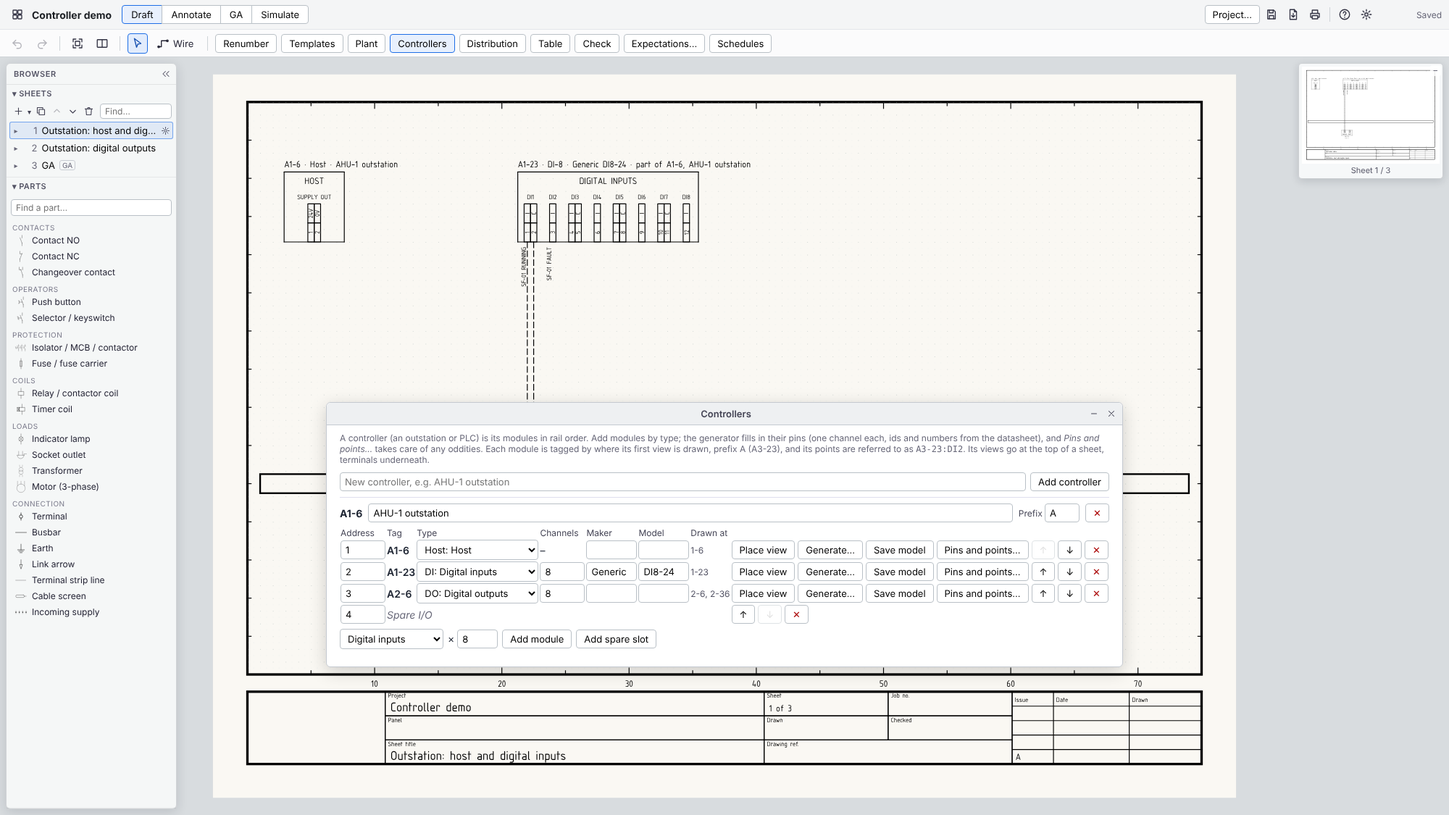
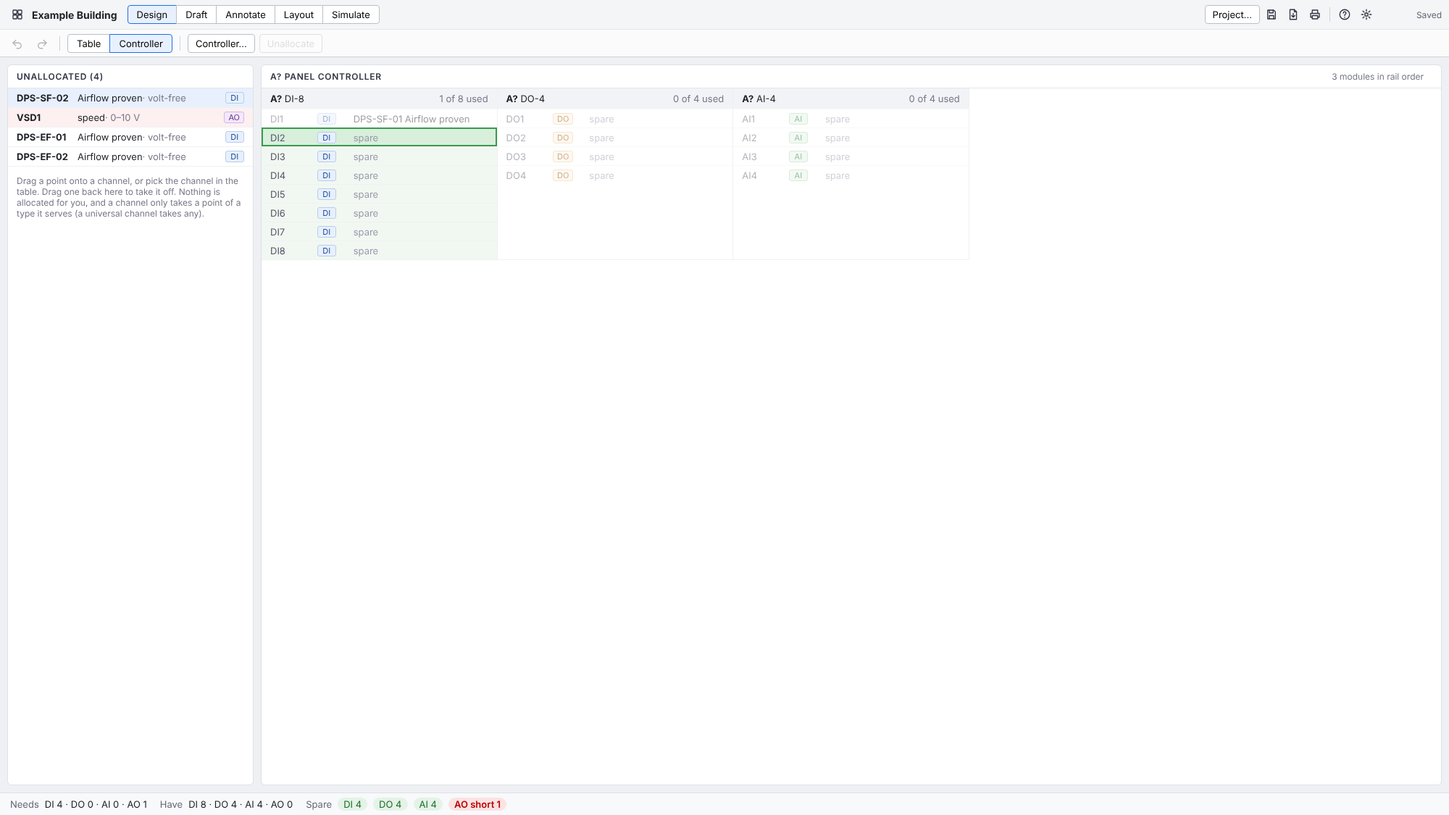
v0.4 step 5b: labels follow points; the controller leaves Draft (#64)
A module channel's label follows the point allocated to it ("DPS1 flow")
on the drawing and in the IO schedule, and a typed label is kept for a
channel with no point. The Controllers button leaves Draft: the window is
Controller... in Design, and its Place view goes to Draft to place.

diff --git a/src/core/v04.test.ts b/src/core/v04.test.ts
@@ -6,10 +6,11 @@ import { AvoidLib } from "libavoid-js";
 import { buildLsp01 } from "../bench/lsp01";
 import { checkProject } from "./checks";
 import { addController, addModule, deleteController, generateModule } from "./controllers";
-import { channelsFor, noChannelReason, unallocated, designTemplateOf, duplicatePlant, insertDesignTemplate, stepTag, tagPlan, templateCounts, addDesignPlant, addDesignPoint, addSystem, allocate, channelsOf, deleteDesignPoint, deleteSystem, moveSystem, movePlant, needsLine, pointOnChannel, pointType, renameSystem, setPlantDesign, systemGroups, updateDesignPoint } from "./design";
+import { channelLabel, channelsFor, noChannelReason, unallocated, designTemplateOf, duplicatePlant, insertDesignTemplate, stepTag, tagPlan, templateCounts, addDesignPlant, addDesignPoint, addSystem, allocate, channelsOf, deleteDesignPoint, deleteSystem, moveSystem, movePlant, needsLine, pointOnChannel, pointType, renameSystem, setPlantDesign, systemGroups, updateDesignPoint } from "./design";
 import { newProject, type IoPoint, type Project } from "./model";
 import { defaultPattern } from "./modules";
-import { addPlant, deletePlant, updatePin, updatePlant } from "./ops";
+import { addPlant, deletePlant, placePlantView, updatePin, updatePlant, updatePoint } from "./ops";
+import { ioSchedule } from "./schedules";
 import { saveSheetTemplate } from "./templates";
 import { parseDesignTemplate, parseProject } from "./validate";
 
@@ -394,5 +395,31 @@ describe("the Controller view's lists (§4)", () => {
     expect(noChannelReason(p, pu.points![2]!)).toBe("the panel has no analogue outputs");
     allocate(p, pu.id, "a", { module: di.id, point: "DI1" });
     expect(noChannelReason(p, pu.points![1]!)).toBe("every DI channel is taken");
+  });
+});
+
+describe("labels follow points (§4)", () => {
+  test("a channel's label is its point's tag and name; with no point, a typed label is kept; drawn views and the IO schedule agree", () => {
+    const { p, di } = panel();
+    placePlantView(p, p.pages[0]!.id, di.id, [10, 4]);
+    updatePoint(p, di.id, "DI2", { label: "Spare, typed" });
+    const pu = pump(p, "DPS1", [{ name: "flow", form: "contact" }]);
+    pu.tag = "DPS1";
+    allocate(p, pu.id, "flow", { module: di.id, point: "DI1" });
+    const ch = (n: string) => di.points!.find((q) => q.name === n)!;
+    expect(channelLabel(p, di, ch("DI1"))).toBe("DPS1 flow");
+    expect(channelLabel(p, di, ch("DI2"))).toBe("Spare, typed");
+    const view = p.pages[0]!.elements.find((e) => e.symbol === "plant-view")!;
+    const label = (pin: string) => (JSON.parse(String(view.params.ppins)) as string[][]).find((r) => r[0] === pin)!.at(-1);
+    expect(label(ch("DI1").pins[0]!)).toBe("DPS1 flow");
+    expect(ioSchedule(p).find((r) => r.point.endsWith("DI1"))!.label).toBe("DPS1 flow");
+    // The plant renamed: the label follows. Taken off: back to what was typed (nothing here).
+    updatePlant(p, pu.id, { tag: "FS1" });
+    expect(label(ch("DI1").pins[0]!)).toBe("FS1 flow");
+    updateDesignPoint(p, pu.id, "flow", { name: "proved" });
+    expect(label(ch("DI1").pins[0]!)).toBe("FS1 proved");
+    allocate(p, pu.id, "proved", null);
+    expect(label(ch("DI1").pins[0]!)).toBe("");
+    expect(label(ch("DI2").pins[0]!)).toBe("Spare, typed");
   });
 });

diff --git a/src/core/ops.ts b/src/core/ops.ts
@@ -34,7 +34,7 @@ import {
 } from "./model";
 import { benchOf, defaultParams, isBar, formatPoints, getSymbol, partPoints, poleMates, requireSymbol, terminalPoint } from "./symbols";
 import { moduleType, moduleTypeName } from "./modules";
-import { renamePointDesign, tidyDesign } from "./design";
+import { channelLabel, renamePointDesign, tidyDesign } from "./design";
 import { cleanPoints, formatQuickEntry, mergePoints, isInputForm, missingRefs, parseQuickEntry, pointOfPin, printedPin } from "./points";
 import { isOrthogonal, routeOf, simplifyRoute } from "./wires";
 import { isMaster, isSlave, locate } from "./xref";
@@ -813,9 +813,10 @@ const cleanTerminals = (list: string[]) => [...new Set(list.map((t) => t.trim())
  * per pin its number as printed, its id, and the label under its run (its
  * group, else its point's name). JSON: [[pin, printed, id, label], …].
  */
-export function plantPinsParam(item: PlantItem): string {
+export function plantPinsParam(item: PlantItem, project?: Project): string {
   const pointOf = pointOfPin(item);
-  const labelOf = new Map((item.points ?? []).map((p) => [p.name, p.label ?? ""]));
+  // A module's labels follow the points on its channels (design-v0.4 §4).
+  const labelOf = new Map((item.points ?? []).map((p) => [p.name, project ? channelLabel(project, item, p) : (p.label ?? "")]));
   return JSON.stringify(
     item.terminals.map((t) => {
       const point = pointOf.get(t) ?? "";
@@ -953,8 +954,8 @@ export function updatePlant(
       renamePointDesign(project, item.id, old.name, renamed.name);
     }
   }
-  syncPlantViews(project);
   tidyDesign(project);
+  syncPlantViews(project);
 }
 
 /** Point refs that named plant:<id>:<old> now name plant:<id>:<new>. */
@@ -1127,8 +1128,9 @@ export function deletePlant(project: Project, id: string): void {
     const views = page.elements.filter((e) => e.symbol === "plant-view" && e.params.plant === id).map((e) => e.id);
     if (views.length) deleteElements(project, page.id, views);
   }
-  // Points on its channels (a module) let them go.
+  // Points on its channels (a module) let them go; labels that followed it go back.
   tidyDesign(project);
+  syncPlantViews(project);
 }
 
 /** Place a view of a plant item, showing the given terminals (default: all). */
@@ -1166,7 +1168,7 @@ export function syncPlantViews(project: Project): void {
       el.params.show = show.join(",");
       el.params.pdesc = item?.description ?? "";
       el.params.pinfo = item?.info ?? "";
-      el.params.ppins = item ? plantPinsParam(item) : "[]";
+      el.params.ppins = item ? plantPinsParam(item, project) : "[]";
       delete el.params.pgroups;
       el.params.pbo = item?.powerByOthers === true;
       // A controller's module is drawn at the top of the sheet, terminals underneath (controller.md §5).

diff --git a/src/core/design.ts b/src/core/design.ts
@@ -6,7 +6,7 @@
  * reference to something that's gone is let go, never guessed.
  */
 import { newId, type ChannelRef, type DesignTemplate, type IoPoint, type PlantItem, type PointForm, type Project } from "./model";
-import { OpError, getPlant, renamePointRefs } from "./ops";
+import { OpError, getPlant, renamePointRefs, syncPlantViews } from "./ops";
 
 /** What the controller needs for a point (design-v0.4 §2, Type): shown, never stored. */
 export type IoType = "DI" | "DO" | "AI" | "AO";
@@ -143,6 +143,7 @@ export function allocate(project: Project, plantId: string, pointName: string, c
   if (!point) throw new OpError(`No point "${pointName}" on that plant`);
   if (!channel) {
     delete point.channel;
+    syncPlantViews(project);
     return;
   }
   const type = pointType(point.form);
@@ -156,6 +157,7 @@ export function allocate(project: Project, plantId: string, pointName: string, c
   const taken = pointOnChannel(project, channel);
   if (taken && !(taken.plant === plant && taken.point === point)) throw new OpError(`${ch.name} already has ${taken.point.name} on it`);
   point.channel = { module: m.id, point: ch.name };
+  syncPlantViews(project);
 }
 
 /**
@@ -380,6 +382,7 @@ export function updateDesignPoint(project: Project, plantId: string, name: strin
     const t = pointType(p.form);
     if (!t || goesTo(p) === "panel" || !m || !ch || !channelTypes(m, ch).includes(t)) delete p.channel;
   }
+  syncPlantViews(project);
 }
 
 /** Remove a point; references to it are left for Check, as when one goes in Draft. */
@@ -388,6 +391,7 @@ export function deleteDesignPoint(project: Project, plantId: string, name: strin
   it.points = (it.points ?? []).filter((q) => q.name !== name);
   if (!it.points.length) delete it.points;
   tidyDesign(project);
+  syncPlantViews(project);
 }
 
 /** A channel as people say it: the module's tag and the channel's name, "A3-23 DI2". */
@@ -598,4 +602,14 @@ export function noChannelReason(project: Project, point: IoPoint): string | unde
   }
   if (!channelsFor(project, point).length) return `every ${t} channel is taken`;
   return undefined;
+}
+
+/**
+ * A module channel's label (design-v0.4 §4): it follows the point on it
+ * ("DPS1 flow"); a channel with no point keeps a label typed by hand.
+ */
+export function channelLabel(project: Project, module: PlantItem, channel: IoPoint): string {
+  if (!module.module) return channel.label ?? "";
+  const on = pointOnChannel(project, { module: module.id, point: channel.name });
+  return on ? `${plantLabelOf(on.plant)} ${on.point.name}` : (channel.label ?? "");
 }

diff --git a/src/web/components/EditorView.svelte b/src/web/components/EditorView.svelte
@@ -527,7 +527,6 @@
         <LabelButton icon="renumber" label="Renumber" active={!!open.renumber} onclick={() => toggle("renumber")} title="See what Renumber would change to tags, terminal and wire numbers, then apply" />
         <LabelButton icon="templates" label="Templates" active={!!open.templates} onclick={() => toggle("templates")} title="Save and stamp sheet and section templates" />
         <LabelButton icon="plant" label="Plant" active={!!open.plant} onclick={() => toggle("plant")} title="Field equipment: define plant and place views" />
-        <LabelButton icon="controllers" label="Controllers" active={!!open.controllers} onclick={() => toggle("controllers")} title="Outstations and PLCs: their modules, in rail order, and module views" />
         <LabelButton icon="distribution" label="Distribution" active={!!open.distribution} onclick={() => toggle("distribution")} title="The supplies busbars, link arrows and the incoming supply pick from" />
         <LabelButton icon="table" label="Table" active={!!open.table} onclick={() => toggle("table")} title="Table: every element in the project, to filter, edit and find-and-replace" />
         <LabelButton icon="check" label="Check" active={!!open.checks} onclick={() => toggle("checks")} title="Check the drawing for problems" />

diff --git a/src/web/components/PointsDialog.svelte b/src/web/components/PointsDialog.svelte
@@ -4,6 +4,7 @@
   import { describeExpectation, isInputForm, isOutputForm, pointOfPin, pointRef, printedPin, things } from "../../core/points";
   import type { Editor } from "../editor.svelte";
   import Conditions from "./Conditions.svelte";
+  import { channelLabel, pointOnChannel } from "../../core/design";
   import Modal from "./Modal.svelte";
 
   /**
@@ -83,7 +84,12 @@
               <span class="pins">{pt.pins.map((t) => printedPin(t, pt.name)).join(" ")}</span>
             </div>
             <div class="what">{POINT_FORMS.find((f) => f.value === pt.form)?.hint}</div>
-            {#if item.module}
+            {#if item.module && pointOnChannel(editor.project, { module: item.id, point: pt.name })}
+              <label class="joblabel">
+                Label
+                <input value={channelLabel(editor.project, item, pt)} disabled title="It follows the point on this channel (Design → Controller)" />
+              </label>
+            {:else if item.module}
               <label class="joblabel">
                 Label
                 <input

diff --git a/src/web/components/ControllersDialog.svelte b/src/web/components/ControllersDialog.svelte
@@ -59,6 +59,12 @@
   const where = (id: string) => viewsOf(editor.project, id).map((v) => v.address).join(", ");
 
   function place(item: PlantItem) {
+    // Draft draws it (design-v0.4 §4): placing a view goes there, on a schematic sheet.
+    if (editor.mode !== "draft") editor.mode = "draft";
+    if (editor.page.ga || editor.page.spare) {
+      editor.flash("Pick a schematic sheet in Draft, then Place view again");
+      return;
+    }
     editor.tool = "place";
     editor.placeSymbol = "plant-view";
     editor.placeParams = {
@@ -67,7 +73,7 @@
       terms: item.terminals.join(","),
       pdesc: item.description,
       pinfo: item.info ?? "",
-      ppins: plantPinsParam(item),
+      ppins: plantPinsParam(item, editor.project),
       pbo: false,
       pmod: moduleParam(item),
     };

diff --git a/src/core/schedules.ts b/src/core/schedules.ts
@@ -2,6 +2,7 @@
  * Terminal and cable schedules, generated from the drawing (DESIGN.md §7).
  */
 import type { Element, IoPoint, Page, PlantItem, Project, Segment } from "./model";
+import { channelLabel } from "./design";
 import { displayTag, elementTexts } from "./tags";
 import { address, partnerOf } from "./xref";
 import { gaSizes, sizeKey } from "./ga";
@@ -280,7 +281,7 @@ export function ioSchedule(project: Project): IoRow[] {
           point: said.slice(said.indexOf(":") + 1),
           form: formLabel(p.form),
           pins: pinsText(m, p),
-          label: p.label ?? "",
+          label: channelLabel(project, m, p),
           wiredTo: wiredTo(project, m, p),
         });
       }

diff --git a/src/core/renumber.ts b/src/core/renumber.ts
@@ -25,7 +25,7 @@ import type { Conductor, Element, Page, Project } from "./model";
 import { assignAddresses, collisionSuffix, type Placed } from "./numbering";
 import { requireSymbol, terminalPoint } from "./symbols";
 import { tagPrefix } from "./tags";
-import { plantTag } from "./ops";
+import { plantTag, syncPlantViews } from "./ops";
 import { isMaster, masterOf, slavesOf } from "./xref";
 
 /**
@@ -227,6 +227,8 @@ export function renumber(project: Project): RenumberResult {
       result.wires++;
     }
   }
+  // Module labels follow the tags of the points on them (design-v0.4 §4).
+  syncPlantViews(project);
   return result;
 }
 

diff --git a/src/core/controllers.ts b/src/core/controllers.ts
@@ -140,9 +140,9 @@ export function generateModule(project: Project, plantId: string, pattern: Modul
   if (clean.length) item.points = clean;
   else delete item.points;
   if (pattern.channels && moduleType(item.module.type).channels) item.module.channels = pattern.channels;
-  syncPlantViews(project);
   // Points allocated to channels the module no longer has let them go.
   tidyDesign(project);
+  syncPlantViews(project);
 }
 
 /** Add a spare slot (Spare I/O) to a controller's rail. */

diff --git a/src/web/components/PlantDialog.svelte b/src/web/components/PlantDialog.svelte
@@ -42,7 +42,7 @@
       terms: item.terminals.join(","),
       pdesc: item.description,
       pinfo: item.info ?? "",
-      ppins: plantPinsParam(item),
+      ppins: plantPinsParam(item, editor.project),
       pbo: item.powerByOthers === true,
     };
     onclose();

diff --git a/README.md b/README.md
@@ -32,11 +32,11 @@ Everything above the block is in the panel; everything below is out on site, wit
 
 Click switches, selectors, push buttons and plant outputs on the drawing. Coils pull in, contacts move, lamps glow in their colour, live wires go red and timers count down (TON, TOF, TP and flashers, named as IEC 61131-3). Power comes from the incoming supply, a transformer or plant that supplies power (a UPS, a PSU), phases kept separate. **Expectations** say what the drawing should do, in plain words ("FA-SF SF-01 running should be on when K8-23 is energised", "Never: K8-6 and K8-11 energised"): plant inputs turn green or red as you go, and **Check logic** tries every sequence of operations to find one that breaks an expectation, shorts the supply or makes relays chatter, with a replay.
 
-### Controllers: modules at the top, every connection underneath
+### Controllers: built in Design, drawn in Draft
 
-![A controller's host and DI-8 module drawn at the top of a sheet, terminals along the bottom with each point's job label along its wire, and the Controllers window listing the modules in rail order with a spare slot](docs/images/controllers.png)
+![Design's Controller view: the points still to allocate on the left, and the controller's DI, DO and AI modules in rail order with each channel and the point on it; a flow switch's point is being dragged, and the DI channels that can take it light up](docs/images/controllers.png)
 
-An outstation or PLC is its modules in rail order, each made from a generic type (DI-8, DO-8, UIO-16…) with its pins generated from the datasheet's pattern. Module views sit at the top of the sheet with their terminals underneath, so wires drop straight down to the plant and every connection is on the module's sheet. A module is tagged by where it's drawn (`A3-23`, sheet 3, column 23) and its points are `A3-23:DI2`, so a reference always tells you which sheet to turn to; a point drawn on a continuation says where, `A3-23:DO5 (4-10)`.
+The panel's controller is built in **Design**: its modules in rail order, and each point put on a channel by hand, by dragging it there or picking the channel in the table. Only channels of the right type take a point, and a channel's label follows the point on it (`DPS1 flow`), on the drawing and in the IO schedule. An outstation or PLC is its modules in rail order, each made from a generic type (DI-8, DO-8, UIO-16…) with its pins generated from the datasheet's pattern. Module views sit at the top of the sheet with their terminals underneath, so wires drop straight down to the plant and every connection is on the module's sheet. A module is tagged by where it's drawn (`A3-23`, sheet 3, column 23) and its points are `A3-23:DI2`, so a reference always tells you which sheet to turn to; a point drawn on a continuation says where, `A3-23:DO5 (4-10)`.
 
 ### Layout: the panel at true scale
 
@@ -123,7 +123,7 @@ Wire routing uses [libavoid-js](https://github.com/Aksem/libavoid-js) (LGPL-2.1-
 
 To see what a finished set looks like, choose *add the LSP-01 example* on the project picker.
 
-**The window:** the top bar has two rows. The first has the project list, the workbenches, *Project…* (title block, logo, revisions), and icons for *Save as*, *Export PDF*, *Print*, help and **Settings** (hover any icon for its name). The second is in the same order on every workbench: undo and redo, the view (Fit, Split), its tools (Select first, then Wire in Draft), then its menus (Renumber, Templates, Plant, Controllers, Distribution, Table, Check, Expectations…, Schedules; Device table… in Layout). A menu's button opens its window and, clicked again, closes it. The drawing fills the rest of the window, with three see-through panels floating over it:
+**The window:** the top bar has two rows. The first has the project list, the workbenches, *Project…* (title block, logo, revisions), and icons for *Save as*, *Export PDF*, *Print*, help and **Settings** (hover any icon for its name). The second is in the same order on every workbench: undo and redo, the view (Fit, Split), its tools (Select first, then Wire in Draft), then its menus (Renumber, Templates, Plant, Distribution, Table, Check, Expectations…, Schedules; Device table… in Layout; in Design, its views and their buttons). A menu's button opens its window and, clicked again, closes it. The drawing fills the rest of the window, with three see-through panels floating over it:
 
 - **Browser** (left): the sheets, and the parts for the workbench in use. Fold it away with `«`.
 - **Properties** (right): shows when you click something. Drag it by its title bar and it stays where you put it; `–` folds it to its title.
@@ -168,7 +168,7 @@ Everything else (Plant, Check, Schedules, Settings…) opens in a **window**: dr
 - **Incoming supply** (Connection group) is where the simulator's power comes from: pick 3-phase + N, 3-phase, single phase or DC.
 - Fields such as *Ratings* show an example as placeholder text, so every plant is written the same way.
 - **Plant…:** the plant list; *New plant…* opens a window to define field equipment once (prefix, description, all its terminals, any information lines such as model and rating) and *Place view* on any sheet. The tag works like every other tag: prefix plus sheet-column where it's first shown, e.g. `SEF-3-13` for a safety extract fan, `U3-13` with the default prefix; type a tag to fix it instead. Its terminals (pins) are split into **points**, one signal each, written as `Mains: L N E | R1: C NO NC | R2: C NO NC`: pins sit in boxes along the top with each point's name in capitals under them (the same pin names can be used in different points). *Pins and points…* opens the full table: each pin's number (what's wired), id (C, Y1, VO) and group (IO1, AO1), drawn when present; and each point's **form** (contact, powered output, dry or powered input, analogue in or out, supply in, supply out, comms) and how it simulates. Tick the terminals a sheet shows; hidden ones give the box a break line. *Power by others* adds a break on the left. The tag and details print under the box. Labels can include `{plant:…}` fields (the *+ field* picker) so they always match the plant's tag.
-- **Controllers…:** outstations and PLCs, each its **modules in rail order** (power supply, host, DI, DO, UIO, AI, AO, with a channel count: a DI-8, a UIO-16) and any **spare slots**, with each slot's bus address (from rail order, or set to match its DIP switches). *Generate…* fills a module's pins from a pattern: the channels, each channel's pin ids (`VO RET CO`, `IO C`, `Y ⊥`), the first pin number, the names (`AO#` → AO1, AO2…), the first channel's number for makers that number across the controller, and any pin shared by several channels (a common `⊥`); *Pins and points…* touches up the rest and gives each point its **label** for the job (*SF-01 running*). *Save model* keeps a module entered from its datasheet in the device table, pins and all (and from there in the shared library with its datasheet and GA size), so the next one is *Add a saved model…*. A module is tagged by where its first view is, prefix **A**: a DI module drawn at sheet 3, column 23 is `A3-23`, and its points are `A3-23:DI2`. *Place view* puts it at the **top of a sheet, terminals along the bottom**: a title row (`A3-23 · DI-8 · part of A2-5, AHU-1 outstation`), the heading, each channel's name, pin ids and numbers, and each point's label along its wire. Split a module across views and sheets by ticking the channels each shows (a break marks the cut edge); it keeps one tag, the continuation says where it carries on from, and a point drawn there is referred to with where it is, `A3-23:DO5 (4-10)`, so a reference always lands on the point. Wire every connection at the module, outputs that switch panel circuits out through link arrows.
+- **Controller…** (Design → Controller): the panel's controller (one per panel), its **modules in rail order** (power supply, host, DI, DO, UIO, AI, AO, with a channel count: a DI-8, a UIO-16) and any **spare slots**, with each slot's bus address (from rail order, or set to match its DIP switches). *Generate…* fills a module's pins from a pattern: the channels, each channel's pin ids (`VO RET CO`, `IO C`, `Y ⊥`), the first pin number, the names (`AO#` → AO1, AO2…), the first channel's number for makers that number across the controller, and any pin shared by several channels (a common `⊥`); *Pins and points…* touches up the rest. A channel's **label** follows the point allocated to it (*DPS1 flow*), and changes when that point or its plant is renamed or retagged; a channel with no point keeps a label typed by hand (*Pins and points…*). *Save model* keeps a module entered from its datasheet in the device table, pins and all (and from there in the shared library with its datasheet and GA size), so the next one is *Add a saved model…*. A module is tagged by where its first view is, prefix **A**: a DI module drawn at sheet 3, column 23 is `A3-23`, and its points are `A3-23:DI2`. *Place view* goes to Draft and puts it at the **top of a schematic sheet, terminals along the bottom**: a title row (`A3-23 · DI-8 · part of A2-5, AHU-1 outstation`), the heading, each channel's name, pin ids and numbers, and each point's label along its wire. Split a module across views and sheets by ticking the channels each shows (a break marks the cut edge); it keeps one tag, the continuation says where it carries on from, and a point drawn there is referred to with where it is, `A3-23:DO5 (4-10)`, so a reference always lands on the point. Wire every connection at the module, outputs that switch panel circuits out through link arrows.
 - **Panel boundary:** tick it in the sheet settings. It's drawn as a **terminal block** across the sheet, with a little white space at each end: terminals placed on it (or dropped within a unit of it) become cells of the block with their number written up the cell (2.5 mm, like pin and wire numbers). Each cell is a column wide, so every terminal has its own column and its own number; one dropped closer than that to another moves along to the next free place. An earth terminal prints no number, just the earth sign centred in its cell (schedules and the GA still name it by its position). Panel wiring entering at the top and field cables leaving at the bottom. The strip name (`X1`) is at the left end of the block and again wherever the strip changes along it, so the cells only need the number (`3-13`); the terminal schedule lists them as `X1:3-13`, and a strip placed on the GA lists its terminals by sheet, then left to right. Drag the block (between terminals) to move it; its terminals go with it. Everything below is field equipment, and wires to it are drawn as dashed field cables. A wire crossing it without a terminal is flagged by **Check**.
 - **Section** (`B`, or *Section* in Annotate's parts): drag out a dashed section box. Drag its label to move it, any edge or corner to resize that side. Boxes and sections are picked by their edge, so parts inside them can still be clicked.
 - **Check** lists problems (boundary crossings, loose contacts, coils without contacts, unpaired off-page arrows, duplicate tags, plant terminals shown nowhere or twice) with a *Show* button. **Schedules** gives terminal and field cable schedules, the **IO schedule** (every controller's points: controller, module, point, form, pins, label and what it's wired to, through link arrows too) and **plant points**, downloadable as CSV. Check also reports two modules at one bus address, modules not drawn or with no pins, and a controller with no modules.

diff --git a/docs/DESIGN.md b/docs/DESIGN.md
@@ -343,6 +343,7 @@ Reference drawings from other companies are proprietary. They are never committe
 | Design table, v0.4 step 3 (2026-11-24) | **Design** is the first workbench (`editor.mode === "design"`): `DesignView.svelte` takes the main area in place of the tiles and browser, with `DesignTable` (system → plant → point, a row per point, systems folding, `editor.designFolded`), `DesignProps` (the picked plant and its points, or a system) and `NeedsLine` along the bottom. What's picked is `editor.designPick` (plant ids, a point, or a system). Ops in `design.ts`: `addSystem`, `renameSystem`, `deleteSystem` (plant stays, unnamed), `moveSystem`, `addDesignPlant` / `insertPlant` / `movePlant` (table order is `project.plant`'s within each system), `setPlantDesign`, `addDesignPoint` (no pins), `updateDesignPoint` (rename follows refs via `renamePointRefs`, now exported and covering interlocks; a channel that can't take the new form or goes-to is let go), `deleteDesignPoint`, `channelText`. Keys in Design: undo, redo, save, Esc |
 | Duplicate and Design templates, v0.4 step 4 (2026-11-24) | `design.ts`: `stepTag` (last number + step, zeros kept; none, no tag), `tagPlan` (each copy's tags, taken ones marked), `duplicatePlant` and `insertDesignTemplate` share `copyRows` (new ids, group-internal `plant:` refs in follows and interlocks remapped, interlock ids new, channels dropped, taken tags left empty, inserted after the last row), `designTemplateOf`, `templateCounts`. `DesignTemplate` is `{ name, plant }` with no module, channel or system. Stored by `DesignLibrary` (`storage.ts`) in `library/design/*.ferrule-design.json` (`format: ferrule-design-template`), served at `/api/design-templates`; parsed by `parseDesignTemplate`. Windows: `DuplicateDialog`, `DesignTemplatesDialog` |
 | Controller view, v0.4 step 5a (2026-11-24) | `ControllerView.svelte` (Design → Controller): *Unallocated* (`unallocated`: points that need a channel and have none) beside the controller's modules as cards, each channel with its point (`pointOnChannel`) or *spare*. HTML drag and drop: a dragged point lights the channels `channelTypes` says can take it; dropping calls `allocate`; dropping on *Unallocated* takes it off. `ChannelSelect.svelte` in the table and Properties offers `channelsFor` (free channels of the right type, rail order via `channelsOfInRailOrder`). `noChannelReason` says why nothing can take a point. *Controller…* opens the Controllers window, which now offers *Add controller* only while there's none (one per panel) |
+| Labels follow points, v0.4 step 5b (2026-11-24) | `channelLabel` (`design.ts`): a module channel's label is the allocated point's plant tag and name, else the typed `label`. `plantPinsParam(item, project)` uses it for module views; `ioSchedule` too. `allocate`, `updateDesignPoint`, `deleteDesignPoint`, `deletePlant`, `generateModule` and `renumber` end with `syncPlantViews`, so drawn labels follow at once. The Controllers button leaves Draft's menus; `ControllersDialog.place` switches to Draft |
 
 ## 16. Open questions
 
